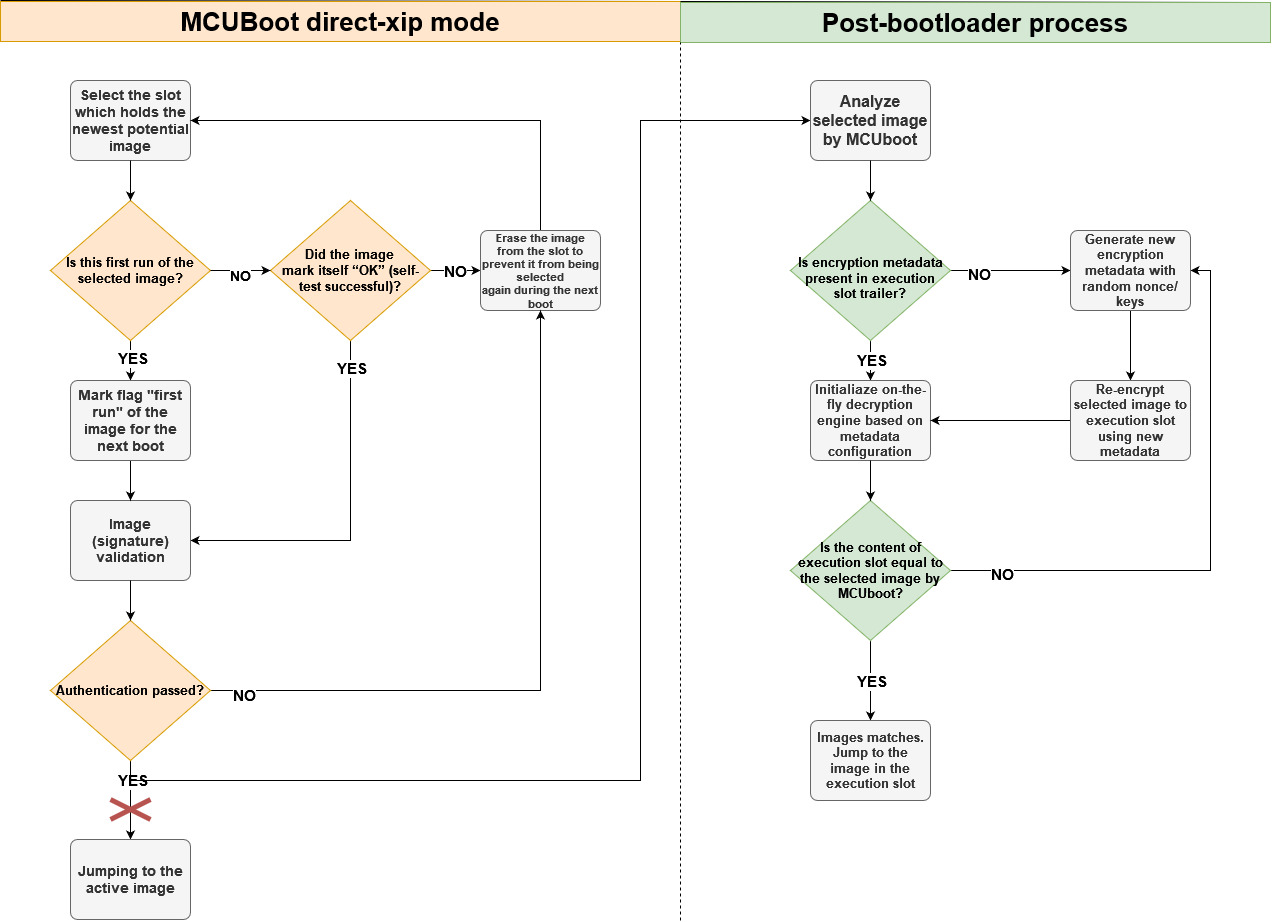
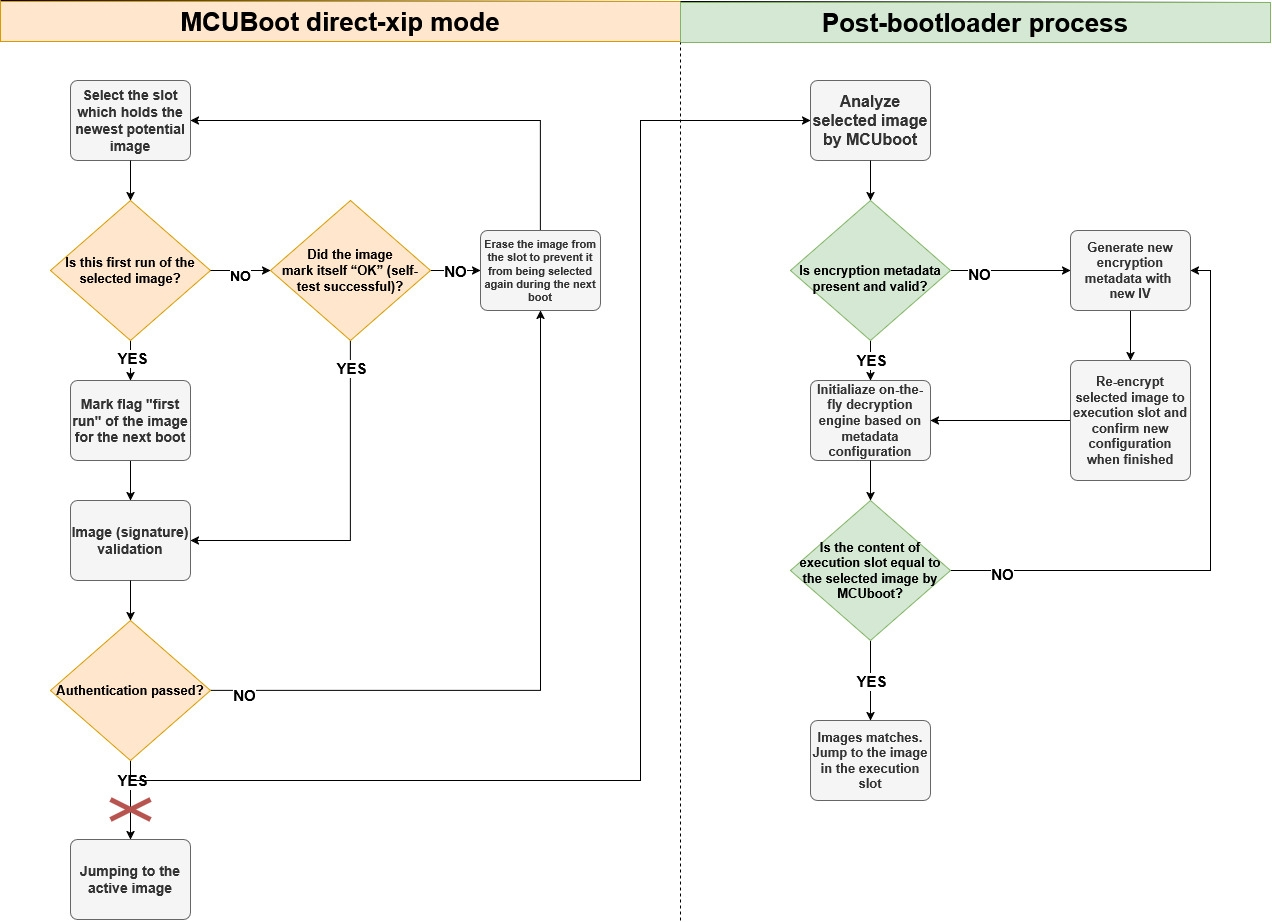
[MCUX-75676] Fix encrypted XIP documentation based on SE review

diff --git a/ext/nxp_encrypted_xip/mcuboot_encrypted_xip.md b/ext/nxp_encrypted_xip/mcuboot_encrypted_xip.md
@@ -14,8 +14,8 @@
       + [4.3 IPED (Inline Prince Encryption/Decryption for off-chip flash)](#43-iped-inline-prince-encryptiondecryption-for-off-chip-flash)
       + [4.4 NPX (PRINCE encryption/decryption for on-chip flash)](#44-npx-prince-encryptiondecryption-for-on-chip-flash)
    * [5. OTA examples instructions](#5-ota-examples-instructions)
-      + [5.1 Enable encrypted XIP support and build projects](#51-enable-encrypted-xip-support-and-build-projects)
-      + [5.2 Generate RSA key pairs for encrypted image containers](#52-generate-rsa-key-pairs-for-encrypted-image-containers)
+      + [5.1 Generate RSA key pairs for encrypted image containers](#51-generate-rsa-key-pairs-for-encrypted-image-containers)
+      + [5.2 Enable encrypted XIP support and build projects](#52-enable-encrypted-xip-support-and-build-projects)
       + [5.3 Sign and encrypt image](#53-sign-and-encrypt-image)
       + [5.4 Evaluate encrypted XIP example](#54-evaluate-encrypted-xip-example)
          - [5.4.1 Load encrypted image container to flash memory](#541-load-encrypted-image-container-to-flash-memory)
@@ -64,14 +64,14 @@ Note: The issue is related to only second stage bootloader usage. OTA ROM only b
 
 The risk is resolved by moving configuration blocks of execution regions at particular flash area and let SBL configure encryption module manually.
 
-MCUBoot determines the boot state by inspecting the image trailers (mcuboot metadata) which have reserved area at the end of each slot. The ecrypted XIP extension uses reserved area called **encryption metadata** what is platform specific and used for particular target encryption handling. Following image shows general structure of encryption metadata.
+MCUBoot determines the boot state by inspecting the slot trailers (mcuboot metadata) which have reserved area at the end of each slot. The ecrypted XIP extension uses reserved area called **encryption metadata** what is platform specific and used for particular target encryption handling. Following image shows general structure of encryption metadata.
 
 ![Image](enc_xip_images/general_metadata.jpg)
 
 The metadata sector consists platform specific configuration blocks and common confirmation block.
 The slot number is pointer to slot containing selected image extracted from MCUBoot response object. Hash acts as confirmation of integrity of configuration blocks and content in execution slot.
 
-During update the extension generate new configuration block with IV, write it at particular flash offset and reconfigure encryption unit for execution area. If the update and verification of the execution area are successful the configuration block is then hashed and confirmed by writing confirmation block. 
+During an OTA update the extension generate new configuration block with IV, write it at particular flash offset and reconfigure encryption unit for execution area. __If the update and verification of the execution area are successful the configuration block is then hashed and confirmed by writing confirmation block__.
 
 ### 3.2 Modes of extension
 
@@ -117,7 +117,7 @@ Before jumping to booting process the on-the-fly decryption is initialiazed so M
 
 This peripheral is specific for RT10xx (except RT1010) and supports up two separate regions using two separate AES keys. In this solution, BEE region 1 is used for encrypting execution slot and BEE region 0 is reserved for a bootloader.
 
-The BEE controller is automatically configured by ROM when specific encryption configuration blocks are found at the start of flash memory. The encryption configuration blocks are organized as __EPRDB__ (Encrypted Protection Region Descriptor BLock), the __EPRDB__ is encrypted using AES-CBC mode with AES key and IV in __KIB__ (Key Info Block). The __KIB__ is encrypted as __EKIB__ (Encrypted KIB) using key provisioned by user. Each BEE region has its __PRDB/KIB pair__. 
+BEE configuration blocks are organized as __EPRDB__ (Encrypted Protection Region Descriptor Block), where the __EPRDB__ is encrypted using AES-CBC mode with AES key and IV located in __KIB__ (Key Info Block). The __KIB__ is encrypted as __EKIB__ (Encrypted KIB) using key provisioned by user. Each BEE region has its __PRDB/KIB pair__. 
 
 The EKIB is decrypted by a key based on selection in `BEE_KEYn_SEL` fuse:
 
@@ -151,7 +151,7 @@ To be implemented...
 
 IPED is encryption unit for external flash specific for NXP RW61x, RT700 and MCXN MCUs. 
 
-Note:__The extension currently support only IPED module in RW61x based on GCM algorithm.__
+Note: __The extension currently supports only IPED module in RW61x based on GCM algorithm.__
 
 Following image shows configuration of metadata structure used for devices with IPED.
 
@@ -161,13 +161,13 @@ There are several points when using IPED especially in GCM mode
 
 * Consumption of physical memory when GCM algorithm is used
 	* range of IPED region is defined in terms of logical address but the physical memory consumption is 1.25 times the logical memory consumption
-	* OTA process must ensure that installed OTA image doesn't overlap size of IPED region, for example by adjusting the text size in linker file or doing checks of re-encrypted image size
+	* OTA process must ensure that installed OTA image doesn't overlap size of IPED region, for example by adjusting the text size in linker file and doing checks of re-encrypted image size
 * Flash operations have to	satisfy boundaries of the flash page/sector size and encryption unit size
 	* see "Constraints on IPED regions" chapter in reference manual
 
 The whole IPED initialization and encryption metadata handling is resolved in module `encrypted_xip_platform_iped.c`.
 
-Additional information for IPED in RW61x can be found in Reference Manual.
+Additional information for IPED in RW61x can be found in its reference manual.
 
 ### 4.4 NPX (PRINCE encryption/decryption for on-chip flash)
 
@@ -176,23 +176,10 @@ To be implemented...
 ## 5. OTA examples instructions
 
 Start preferentially with an empty board, erasing original content if needed.
-For demonstration we assume the 
 
-### 5.1 Enable encrypted XIP support and build projects
+### 5.1 Generate RSA key pairs for encrypted image containers
 
-Encrypted XIP can be evaluated by enabling define `CONFIG_ENCRYPT_XIP_EXT_ENABLE` in `sblconfig.h`.
-
-Optional overwrite-only mode is enabled by `CONFIG_ENCRYPT_XIP_EXT_OVERWRITE_ONLY`.
-
-Note: make sure that define `CONFIG_MCUBOOT_FLASH_REMAP_ENABLE` is disabled otherwise builds fails.
-
-Build mcuboot_opensource and OTA application.
-
-Load mcuboot_opensource.
-
-### 5.2 Generate RSA key pairs for encrypted image containers
-
-This part can be skipped as OTA examples in SDK uses pre-generated key pairs.
+Note: This part can be skipped as OTA examples in SDK uses pre-generated key pairs.
 
 Generate private key
 ~~~
@@ -213,11 +200,24 @@ imgtool getpub -k enc-rsa2048-pub.pem -e pem
 ~~~
 Adjust the content of the `middleware\mcuboot_opensource\boot\nxp_mcux_sdk\keys\enc-rsa2048-pub.pem` accordingly.
 
+### 5.2 Enable encrypted XIP support and build projects
+
+Encrypted XIP can be evaluated by enabling define `CONFIG_ENCRYPT_XIP_EXT_ENABLE` in `sblconfig.h`.
+
+Optional overwrite-only mode is enabled by `CONFIG_ENCRYPT_XIP_EXT_OVERWRITE_ONLY`.
+
+Note: make sure that define `CONFIG_MCUBOOT_FLASH_REMAP_ENABLE` is disabled otherwise builds fails.
+
+Build mcuboot_opensource and OTA application.
+
+Load mcuboot_opensource.
+
 ### 5.3 Sign and encrypt image
 
-To sign and encrypt an application binary, imgtool must be provided with respective key pairs and a set of parameters as in the following example:
+To sign and encrypt an application binary, imgtool must be provided with respective key pairs and a set of parameters as in the following examples:
 
-For an OTA image use following set of commands:
+The initial image must be loaded using the --pad --confirm parameters regardless if using ISP or other method to write it
+For an initial image use following set of commands:
 ~~~
  imgtool sign --key sign-rsa2048-priv.pem
 	      --align 4
@@ -226,12 +226,30 @@ For an OTA image use following set of commands:
 	      --slot-size 0x200000
 	      --max-sectors 800
 	      --version "1.0"
+	      --pad
+	      --confirm
 	      -E enc-rsa2048-pub.pem
 	      app_binary.bin
-	      app_binary_SIGNED_ENCRYPTED.bin
+	      app_binary_SIGNED_ENCRYPTED_INITIAL.bin
 ~~~
 
-For an image to be loaded using ISP the parameters `--pad --confirm` needs to be added. This applies only for three slot mode (direct-xip).
+For an OTA image just remove the parameters `--pad --confirm` and increase the version number as in the following set of commands:
+~~~
+ imgtool sign --key sign-rsa2048-priv.pem
+	      --align 4
+	      --header-size 0x400
+	      --pad-header
+	      --slot-size 0x200000
+	      --max-sectors 800
+	      --version "1.1"
+	      -E enc-rsa2048-pub.pem
+	      app_binary.bin
+	      app_binary_SIGNED_ENCRYPTED_OTA.bin
+~~~
+
+The values of parameters can be obtained from a readme file of target board. Example: `boards\BOARD\ota_examples\mcuboot_opensource\example_board_readme.md`
+
+Note: The parameters `--pad --confirm` for an initial image applies only for __three slot mode__ as direct-xip setup is used and it requires presence of the slot trailer. Note that the size of generated binary equals size of the slot. For __overwrite only mode__ an OTA image can be used as an initial image as the slot trailer is not required. 
 
 ### 5.4 Evaluate encrypted XIP example
 
@@ -252,22 +270,24 @@ For three slot configuration you will find:
 #define BOOT_FLASH_ENC_META             0x60640000  -- encryption metadata address
 ~~~
 
-Image generated with additional `--pad --confirm` can be loaded to primary or secondary slot.
+Image generated with additional `--pad --confirm` can be loaded to __primary__ or __secondary__ slot.
 
 For overwrite-only configuration you will find:
 
 ~~~
 /* Encrypted XIP extension: modified overwrite-only mode */
 
-#define BOOT_FLASH_ACT_APP              0x60040000  -- active slot address
+#define BOOT_FLASH_ACT_APP              0x60040000  -- active (execution) slot address
 #define BOOT_FLASH_CAND_APP             0x60240000  -- candidate slot address
 #define BOOT_FLASH_ENC_META             0x60440000  -- encryption metada address
 #define BOOT_FLASH_EXEC_APP             BOOT_FLASH_ACT_APP
 ~~~
 
-Image has to be loaded always to candidate slot address. Additional `--pad --confirm` parameters are not needed here.
+Image has to be loaded always to __candidate__ slot address. Additional `--pad --confirm` parameters are not needed here.
 
 To load image the pyocd, blhost or MCUXpresso Secure Provisioning Tool can be used.
+
+Note: Is possible to attach to running encrypted application for debug purpose.
 
 #### 5.4.2 Run unsigned unencrypted OTA application (debug session)
 
@@ -278,8 +298,6 @@ WARNING: OTA image will be downloaded to secondary slot
 ~~~
 This is expected as there is no encryption metadata due debug purpose so application has no reference to linkage to referenced image in staging area.
 
-Note: Is possible to attach to running encrypted application for debug purpose.
-
 ### 5.5 Running encrypted image
 
 These are expected outputs when an OTA image is detected and then re-encrypted
@@ -287,7 +305,7 @@ These are expected outputs when an OTA image is detected and then re-encrypted
 Three slot configuration:
 ~~~
 hello sbl.
-Bootloader Version 2.0.0
+Bootloader Version 2.1.0
 Primary   slot: version=1.0.0+0
 Image 0 Secondary slot: Image not found
 writing copy_done; fa_id=0 off=0x1fffe0 (0x43ffe0)
@@ -295,15 +313,17 @@ Image 0 loaded from the primary slot
 
 Starting post-bootloader process of encrypted image...
 Referenced image is located in the primary slot
-Decrypting and loading MCUBOOT AES-CTR key for staged image...
+Decrypting and loading the MCUBOOT AES-CTR key for staged image...
 AES-CTR key loaded
-Checking execution slot...
+Checking the execution slot...
 No valid image found in staging area...
 Preparing execution slot for new image
-Installing new image into execution slot from staged area
-On-the-fly initialization completed
-Re-encrypting staged image in execution slot...
-........................................................................
+BEE configuration found and successfully configured...
+Installing new image into execution slot from staged area...
+Erasing the execution slot...
+erased 12/12 sectors
+Re-encrypting staged image to execution slot...
+processed 38724/38724 bytes
 Loading image successful
 Image verification successful
 Post-bootloader process of encrypted image successful
@@ -314,16 +334,19 @@ Jumping to the image
 
 
 
-OTA HTTPS client demo (Ethernet)
+*************************************
+* Basic MCUBoot application example *
+*************************************
 
-Initializing PHY...
-Obtaining IP address from DHCP...
+Built Feb 13 2025 16:06:06
+
+$
 ~~~
 
 Overwrite-only mode:
 ~~~
 hello sbl.
-Bootloader Version 2.0.0
+Bootloader Version 2.1.0
 On-the-fly decryption initialization completed
 Image index: 0, Swap type: test
 Image 0 upgrade secondary slot -> primary slot
@@ -342,7 +365,7 @@ Jumping to the image
 * Basic MCUBoot application example *
 *************************************
 
-Built Nov 30 2024 21:01:35
+Built Feb 13 2025 16:06:06
 
 $
 ~~~
